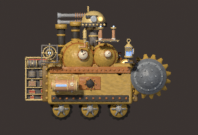
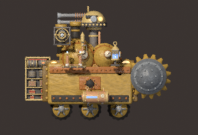
Show and check the aetheric parts at their own attach points (ticket 376)
The #363 review renders stood the five parts at hand-picked staging
positions, which overlapped the tether reel, the echo sounder, a slot
housing and the acid etcher. They now read each part's attach point from
the exported vehicle sidecar, as the tech gear renders do.

check_clearance.py rasterises each part's front-view silhouette at its
point and checks it against everything that can be drawn with it: every
gear row folded and deployed, the slot housings in each cradle, the
turret, rack and bore gun, the hull.stack showcase stack, the hull.liner
point and the other four parts. clearance.json records no overlap. The
two clearance renders show the loaded rig with the five parts, folded and
deployed, for the eye check the TD asked for.

The README records where each point sits and why three of them sit beside
the GD's place: the nose tip, the roof over the boilers and the rear are
already covered by owned gear.

Changed region(s): [[0.1818, 0.1778, 0.7273, 0.8593]]

diff --git a/docs/art/aetheric/check_clearance.py b/docs/art/aetheric/check_clearance.py
@@ -1,0 +1,208 @@
+"""
+The clearance check of the five aetheric attach points (ticket 376, TD lock on #265): each part at
+its point must overlap nothing that can be drawn on the vehicle with it. It rasterises the
+silhouette in the game's front view (X right, Z up) of every such part on a 4 mm grid and writes
+the overlaps to clearance.json; it exits 1 when there is any.
+
+    blender -b --factory-startup --python-exit-code 1 -P docs/art/aetheric/check_clearance.py
+
+Checked against each part: every gear row of techGear.json at its point, folded and deployed (an
+extractor's unfold in between is listed apart, as `unfold`, since it lasts 8 ticks); every slot
+housing in each of the five cradles; the auto-guns turret at every look, the dynamite rack and the
+bore gun; the hull.stack showcase stack at every tier and the hull.liner point; and the other four
+aetheric parts. The vehicle's own hull, boilers and wheels are what the parts are mounted on, so
+they are not obstacles.
+"""
+
+import json
+import os
+import sys
+
+import bpy
+import numpy as np
+
+HERE = os.path.dirname(os.path.abspath(__file__))
+REPO_ROOT = os.path.abspath(os.path.join(HERE, '..', '..', '..'))
+sys.path.insert(0, os.path.join(REPO_ROOT, 'docs', 'art', 'dynamite'))
+sys.path.insert(0, os.path.join(REPO_ROOT, 'docs', 'art', 'tech-gear'))
+sys.path.insert(0, HERE)
+
+import render_aetheric as aetheric  # noqa: E402
+import render_dynamite as stage  # noqa: E402
+import render_tech_gear as rig  # noqa: E402
+
+REPORT = os.path.join(HERE, 'clearance.json')
+CELL_M = 0.004
+WINDOW_M = (-1.0, -0.7, 1.2, 1.0)
+REST_POSES = (0.0, 1.0)
+UNFOLD_POSES = (0.25, 0.5, 0.75)
+SLOT_POINTS = ('powerup.1', 'powerup.2', 'powerup.3', 'powerup.4', 'powerup.5')
+TURRET = 'vehicle-auto-guns'
+BORE_GUN = ('vehicle-bore-gun', 'hull.front')
+RACK = ('vehicle-dynamite-rack', 'hull.rear')
+SHOWCASE_STACK_PARTS = ('t2-stack-2', 't3-stack-2')
+LINER_POINT = 'hull.liner'
+LINER_RADIUS_M = 0.03
+
+COLUMNS = int(round((WINDOW_M[2] - WINDOW_M[0]) / CELL_M))
+ROWS = int(round((WINDOW_M[3] - WINDOW_M[1]) / CELL_M))
+CELL_X = WINDOW_M[0] + (np.arange(COLUMNS) + 0.5) * CELL_M
+CELL_Z = WINDOW_M[1] + (np.arange(ROWS) + 0.5) * CELL_M
+
+
+def main():
+    attach = aetheric.attach_points()
+    rig.HULL_FRONT['y'] = 0.0
+    parts = aetheric_silhouettes(attach)
+    obstacles = obstacle_silhouettes(attach)
+    report = {name: clearance_of(name, mask, parts, obstacles) for name, mask in parts.items()}
+    with open(REPORT, 'w', encoding='utf8') as file:
+        json.dump(report_with_points(report, attach), file, indent=2)
+        file.write('\n')
+    if any(entry['overlaps'] for entry in report.values()):
+        sys.exit(1)
+
+
+# --- what is drawn ---------------------------------------------------------------------------------
+
+
+def aetheric_silhouettes(attach):
+    masks = {}
+    for entry in aetheric.read_table()['parts']:
+        fresh_scene()
+        placed = stage.append_parts_of(entry['assetId'])
+        move_by(placed, attach[entry['attach']]['atM'])
+        masks[entry['attach']] = silhouette_of(placed)
+    return masks
+
+
+def obstacle_silhouettes(attach):
+    """(name, pose, mask) for everything that can be on the vehicle with the five parts."""
+    table = rig.read_json(rig.GEAR_TABLE)
+    obstacles = []
+    for item in table['items']:
+        obstacles += gear_silhouettes(item, attach)
+    obstacles += asset_part_silhouettes(TURRET, (0.0, 0.0), 'turret')
+    obstacles += [(asset, 'fitted', asset_silhouette(asset, attach[point]['atM'])) for asset, point in (RACK, BORE_GUN)]
+    obstacles += [(name, 'showcase', mask) for name, _, mask in asset_part_silhouettes('vehicle', (0.0, 0.0), 'vehicle')
+                  if name.split('/')[1] in SHOWCASE_STACK_PARTS]
+    obstacles.append((LINER_POINT, 'showcase', disk_at(attach[LINER_POINT]['atM'], LINER_RADIUS_M)))
+    return obstacles
+
+
+def gear_silhouettes(item, attach):
+    if item['attach'] == 'slot':
+        return [(item['itemId'], slot, mounted_silhouette(item, attach, slot, 0.0)) for slot in SLOT_POINTS]
+    rest = [(item['itemId'], pose_name(fraction), mounted_silhouette(item, attach, None, fraction))
+            for fraction in REST_POSES]
+    if item['kind'] != 'extractor':
+        return rest
+    unfold = np.any([mounted_silhouette(item, attach, None, fraction) for fraction in UNFOLD_POSES], axis=0)
+    return rest + [(item['itemId'], 'unfold', unfold)]
+
+
+def pose_name(fraction):
+    return 'folded' if fraction == 0.0 else 'deployed'
+
+
+def mounted_silhouette(item, attach, slot, fraction):
+    fresh_scene()
+    return silhouette_of(rig.mount(item, attach, slot, fraction))
+
+
+def asset_silhouette(asset_id, at_m):
+    fresh_scene()
+    placed = stage.append_parts_of(asset_id)
+    move_by(placed, at_m)
+    return silhouette_of(placed)
+
+
+def asset_part_silhouettes(asset_id, at_m, label):
+    fresh_scene()
+    placed = stage.append_parts_of(asset_id)
+    move_by(placed, at_m)
+    return [('%s/%s' % (label, obj.name), 'every look', silhouette_of([obj])) for obj in placed]
+
+
+def fresh_scene():
+    bpy.ops.wm.read_factory_settings(use_empty=True)
+
+
+def move_by(objects, at_m):
+    for obj in objects:
+        obj.location.x += at_m[0]
+        obj.location.z += at_m[1]
+
+
+# --- silhouettes -----------------------------------------------------------------------------------
+
+
+def silhouette_of(objects):
+    """The cells the objects' triangles cover in the front view."""
+    rig.settle()
+    graph = bpy.context.evaluated_depsgraph_get()
+    mask = np.zeros((ROWS, COLUMNS), bool)
+    for obj in objects:
+        for triangle in front_triangles_of(obj, graph):
+            fill_triangle(mask, triangle)
+    return mask
+
+
+def front_triangles_of(obj, graph):
+    evaluated = obj.evaluated_get(graph)
+    mesh = evaluated.to_mesh()
+    mesh.calc_loop_triangles()
+    corners = np.array([(obj.matrix_world @ vertex.co)[:] for vertex in mesh.vertices]).reshape(-1, 3)[:, [0, 2]]
+    triangles = [corners[list(triangle.vertices)] for triangle in mesh.loop_triangles]
+    evaluated.to_mesh_clear()
+    return triangles
+
+
+def fill_triangle(mask, triangle):
+    a, b, c = triangle
+    low, high = triangle.min(axis=0), triangle.max(axis=0)
+    i0, i1 = cell_range(low[0], high[0], WINDOW_M[0], COLUMNS)
+    j0, j1 = cell_range(low[1], high[1], WINDOW_M[1], ROWS)
+    area = (b[1] - c[1]) * (a[0] - c[0]) + (c[0] - b[0]) * (a[1] - c[1])
+    if i1 <= i0 or j1 <= j0 or abs(area) < 1e-12:
+        return
+    x, z = np.meshgrid(CELL_X[i0:i1], CELL_Z[j0:j1])
+    first = ((b[1] - c[1]) * (x - c[0]) + (c[0] - b[0]) * (z - c[1])) / area
+    second = ((c[1] - a[1]) * (x - c[0]) + (a[0] - c[0]) * (z - c[1])) / area
+    mask[j0:j1, i0:i1] |= (first >= 0) & (second >= 0) & (first + second <= 1)
+
+
+def cell_range(low, high, origin, count):
+    return max(0, int((low - origin) / CELL_M)), min(count, int((high - origin) / CELL_M) + 1)
+
+
+def disk_at(at_m, radius):
+    x, z = np.meshgrid(CELL_X, CELL_Z)
+    return (x - at_m[0]) ** 2 + (z - at_m[1]) ** 2 <= radius * radius
+
+
+# --- the report ------------------------------------------------------------------------------------
+
+
+def clearance_of(name, mask, parts, obstacles):
+    others = [(other, 'fitted', other_mask) for other, other_mask in parts.items() if other != name]
+    overlaps, unfold = [], []
+    for obstacle, pose, obstacle_mask in obstacles + others:
+        cells = int((mask & obstacle_mask).sum())
+        if cells:
+            (unfold if pose == 'unfold' else overlaps).append({'with': obstacle, 'pose': pose, 'cells': cells})
+    return {'overlaps': overlaps, 'unfold': unfold, 'checked': len(obstacles) + len(others)}
+
+
+def report_with_points(report, attach):
+    return {
+        'about': 'Ticket 376: silhouette overlaps of each aetheric part at its attach point, on a %g mm grid; '
+                 'written by check_clearance.py. `overlaps` must be empty; `unfold` lists the 8-tick '
+                 'extractor unfold sweep for the record.' % (CELL_M * 1000),
+        'points': {name: {'atM': attach[name]['atM'], 'z': attach[name]['z'], **entry}
+                   for name, entry in report.items()},
+    }
+
+
+if __name__ == '__main__':
+    main()

diff --git a/docs/art/aetheric/render_aetheric.py b/docs/art/aetheric/render_aetheric.py
@@ -1,14 +1,14 @@
 """
 Review renders of the aetheric vehicle parts (ticket 363, the art half of #265): each part alone
-in the game's front view, and the tier-3 rig bare and with all five fitted, at review size and at
-gameplay zoom.
+in the game's front view, the tier-3 rig bare and with all five fitted, at review size and at
+gameplay zoom, and the loaded rig with the five parts, folded and deployed (ticket 376).
 
-    blender -b --factory-startup --python-exit-code 1 -P docs/art/aetheric/render_aetheric.py [-- alone|rig]
+    blender -b --factory-startup --python-exit-code 1 -P docs/art/aetheric/render_aetheric.py [-- alone|rig|bare|fitted|clearance]
 
 It reads the sources art/blender/<id>/ and writes the PNGs into this folder. The rig is the tech
 gear review's (render_tech_gear.py: the tier-3 vehicle, the look-3 turret and the dynamite rack).
-Each part's origin sits at its `stageAtM` from aethericParts.json, a review position next to the
-sidecar point the GD's words name, not the TD's attach point, which comes with the wiring (#265).
+Each part's origin sits at its own attach point (`attach` in aethericParts.json, ticket 376), read
+from the exported vehicle sidecar like every other gear part.
 """
 
 import json
@@ -36,17 +36,25 @@ MARGIN_M = 0.03
 # The tech gear review's frame, so the two rig sheets line up when compared.
 RIG_FRAME = ((0.1, 0.1), 2.2, 1.5)
 RIG_LOOKS = ('bare', 'fitted')
+# The loaded rig of the clearance render: one head and one collar (the sockets hold one each), the
+# five slot housings, and every other gear row; render_tech_gear.py mounts every head at once.
+EQUIPPED_DRILL_GEAR = ('gear.twin_bit', 'gear.sampling_corer')
+DRILL_SOCKET_KINDS = ('head', 'collar')
+CLEARANCE_POSES = (('folded', 0.0), ('deployed', 1.0))
 
 
 def main():
     table = read_table()
-    wanted = sys.argv[sys.argv.index('--') + 1:] if '--' in sys.argv else ['alone', 'rig']
+    wanted = sys.argv[sys.argv.index('--') + 1:] if '--' in sys.argv else ['alone', 'rig', 'clearance']
     if 'alone' in wanted:
         for entry in table['parts']:
             render_alone(entry)
-    if 'rig' in wanted:
-        for look in RIG_LOOKS:
+    for look in RIG_LOOKS:
+        if 'rig' in wanted or look in wanted:
             render_rig(table, look)
+    if 'clearance' in wanted:
+        for pose, fraction in CLEARANCE_POSES:
+            render_clearance(table, pose, fraction)
 
 
 def read_table():
@@ -64,15 +72,44 @@ def render_alone(entry):
 
 
 def render_rig(table, look):
-    rig.stage_vehicle(attach_points())
+    attach = attach_points()
+    rig.stage_vehicle(attach)
     if look == 'fitted':
         for entry in table['parts']:
-            fit_on_rig(entry)
+            fit_on_rig(entry, attach)
     rig.settle()
     light_opaque_stage(RIG_SAMPLES)
     for px_per_m, suffix in ((RIG_PX_PER_M, ''), (INGAME_PX_PER_M, '.ingame')):
         stage.frame_orthographic(*RIG_FRAME, px_per_m)
         stage.render_to(output_path('rig.%s%s.png' % (look, suffix)))
+
+
+def render_clearance(table, pose, fraction):
+    """Everything that can be on the vehicle with the five parts, posed `fraction` deployed."""
+    attach = attach_points()
+    rig.stage_vehicle(attach)
+    mount_loaded_gear(attach, fraction)
+    for entry in table['parts']:
+        fit_on_rig(entry, attach)
+    rig.settle()
+    light_opaque_stage(RIG_SAMPLES)
+    stage.frame_orthographic(*RIG_FRAME, RIG_PX_PER_M)
+    stage.render_to(output_path('rig.clearance.%s.png' % pose))
+
+
+def mount_loaded_gear(attach, fraction):
+    for item in rig.read_json(rig.GEAR_TABLE)['items']:
+        slot = rig.slot_holding(item['itemId'])
+        if is_left_off(item, slot):
+            continue
+        rig.mount(item, attach, slot, fraction)
+
+
+def is_left_off(item, slot):
+    """A power-up housing outside the five slots, or a spare head or collar."""
+    if item['attach'] == 'slot':
+        return slot is None
+    return item['kind'] in DRILL_SOCKET_KINDS and item['itemId'] not in EQUIPPED_DRILL_GEAR
 
 
 def light_opaque_stage(samples):
@@ -85,10 +122,12 @@ def attach_points():
     return {point['id']: point for point in rig.read_json(rig.VEHICLE_SIDECAR)['attach']}
 
 
-def fit_on_rig(entry):
-    """In front of the hull's relief, stepped by draw order as the tech gear review does."""
-    at_x, at_z = entry['stageAtM']
-    in_front_y = rig.HULL_FRONT['y'] - rig.GEAR_CLEARANCE_Y + rig.Y_PER_DRAW_ORDER * (entry['z'] + 1)
+def fit_on_rig(entry, attach):
+    """At its attach point, in front of the hull's relief, stepped by draw order as the tech gear
+    review does."""
+    point = attach[entry['attach']]
+    at_x, at_z = point['atM']
+    in_front_y = rig.HULL_FRONT['y'] - rig.GEAR_CLEARANCE_Y + rig.Y_PER_DRAW_ORDER * (point['z'] + 1)
     for obj in stage.append_parts_of(entry['assetId']):
         obj.location.x += at_x
         obj.location.z += at_z

diff --git a/docs/art/aetheric/README.md b/docs/art/aetheric/README.md
@@ -41,13 +41,18 @@ on its arbor, and the condenser needle turns on its gauge pin.
 | `<id>.front.png`                 | the asset alone in the game's front view at 768 px/m                        |
 | `rig.bare.png`, `rig.fitted.png` | the tier-3 rig (look-3 turret, dynamite rack) bare and with all five fitted |
 | `rig.bare.ingame.png`, `-fitted` | the same at 90 px/m, about what a 1080p screen shows at the default zoom    |
-| `aethericParts.json`             | the items, their assets and parts, the GD's place and the review positions  |
+| `rig.clearance.folded.png`       | the loaded rig and the five parts at their points, every extractor folded   |
+| `rig.clearance.deployed.png`     | the same with every extractor deployed                                      |
+| `clearance.json`                 | each part's overlaps with what can be drawn with it: none (ticket 376)      |
+| `aethericParts.json`             | the items, their assets, parts and attach points, the GD's place            |
 | `author_aetheric.py`             | wrote the first version of the sources (Blender)                            |
 | `render_aetheric.py`             | the renders above (Blender), on the tech gear review's rig and frame        |
+| `check_clearance.py`             | writes `clearance.json` (Blender); exits 1 on any overlap                   |
 
 ```
 blender -b --factory-startup --python-exit-code 1 -P docs/art/aetheric/author_aetheric.py [-- <id> ...]
-blender -b --factory-startup --python-exit-code 1 -P docs/art/aetheric/render_aetheric.py [-- alone|rig]
+blender -b --factory-startup --python-exit-code 1 -P docs/art/aetheric/render_aetheric.py [-- alone|rig|bare|fitted|clearance]
+blender -b --factory-startup --python-exit-code 1 -P docs/art/aetheric/check_clearance.py
 ```
 
 ## Hand checks (14 Oct 2026)
@@ -63,18 +68,43 @@ blender -b --factory-startup --python-exit-code 1 -P docs/art/aetheric/render_ae
 - Not looked over live in the MCP Blender: the review is the headless renders above, the same way
   #362 and #364 were reviewed.
 
+## Attach points (ticket 376, 14 Oct 2026)
+
+Each part has its own point (TD lock on #265), placed in `vehicle.blend` by
+`scripts/art/place_vehicle_attach.py`. `rig.fitted.png` and both clearance renders now stand the
+parts there. `stageAtM` in the table is where the first renders put them, and it overlapped the
+tether reel, the echo sounder, a slot housing and the acid etcher.
+
+| Point             | Part                  | `atM`         | `z` | Where it sits                                               |
+| ----------------- | --------------------- | ------------- | --- | ----------------------------------------------------------- |
+| `hull.stack.side` | resonance whistle     | (-0.15, 0.29) | 3   | teed off the foot of the second stack, on its fore side     |
+| `hull.nose`       | phase lantern         | (0.28, 0.12)  | 6   | on the fore deck behind the periscope                       |
+| `hull.roof.coils` | arc coil              | (-0.18, 0.10) | 6   | on the hull's roof plate, before the aft boiler             |
+| `hull.tail`       | chronometric governor | (-0.31, 0.35) | 6   | on the aft stack, beside the echo sounder and over the rack |
+| `hull.flank`      | aether condenser      | (0.06, -0.23) | 6   | low on the flank, over the track, below the slot housings   |
+
+These are as near the GD's places as clearance allows. `check_clearance.py` finds every one of
+them clear, in the front view, of every gear row folded and deployed, every slot housing in each
+cradle, the turret at every look, the rack, the bore gun, the `hull.stack` showcase stack, the
+`hull.liner` point and the other four parts. Even so, three of them sit away from the place the GD
+named:
+
+- **The nose tip is taken.** The hood extractor and the side cutters cover the hull's nose
+  whenever they are owned, so the lantern stands on the fore deck.
+- **The roof over the boilers is taken.** The tether reel, the turret pillar and the stacks leave
+  no 0.27 m span, so the coils stand on the roof plate the boilers sit on.
+- **The rear is taken.** The rack, its crates, the echo sounder and the acid etcher fill it, so the
+  escapement cage rides the aft stack.
+
 ## Known limits, for the wiring (#265)
 
-- **No attach points.** The TD picks the ids and their `atM`; `stageAtM` and `nearPoint` only
-  stage the renders. The whistle stands next to `hull.stack`, not at it, since the turret's
-  barrels pass over the stack's top.
 - **No export yet.** `npm run art:export` needs each id registered (`r.artAssets`) and a
   placeholder sidecar listing its part ids; both come with the wiring. The part ids are in
   `aethericParts.json`.
-- The draw order is a suggestion: `z` 3 for the whistle (over the stack's 2), 9 for the lantern
-  (with the drill hood), 6 for the rest (with the slot items).
+- The draw order is the point's `z`: 3 for the whistle (over the stack's 2) and 6 for the rest,
+  with the slot items. The lantern's 9 belonged to the hood place it no longer takes.
 - The rig parts are drawn for the tier-3 hull; on tier 1 and 2 the stack and boilers sit a little
-  differently and the TD's attach points absorb that.
+  differently. On tier 1 there is no second stack, so the whistle stands on the boiler's crown.
 
 ## The whistle ships first (#262)
 
